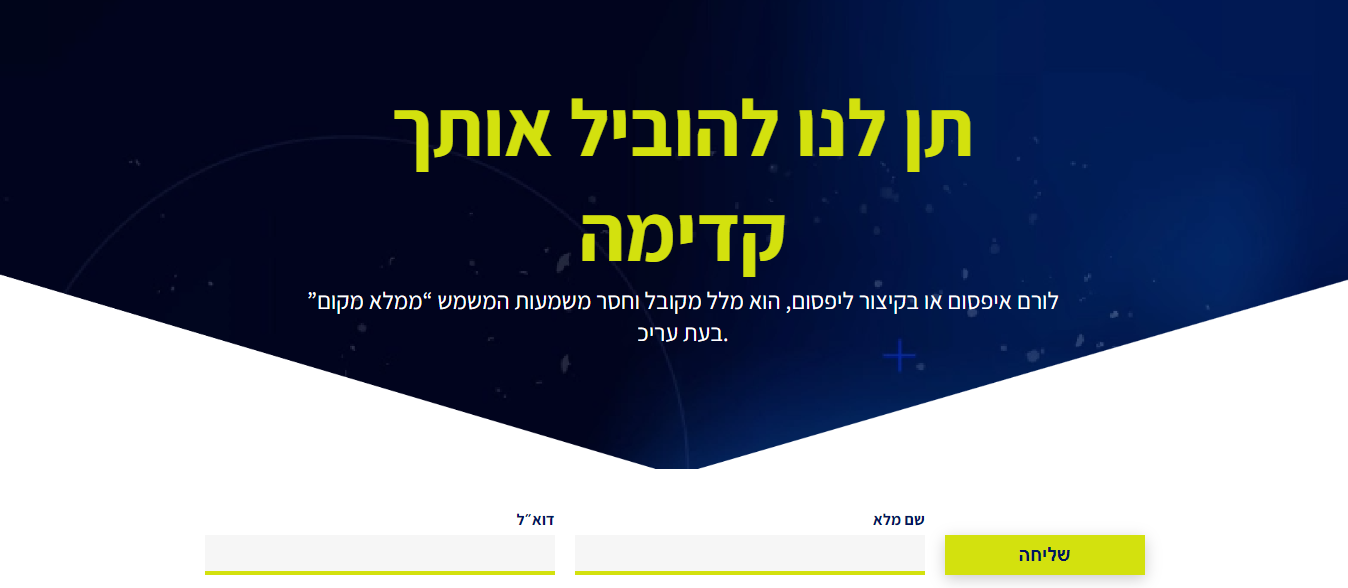
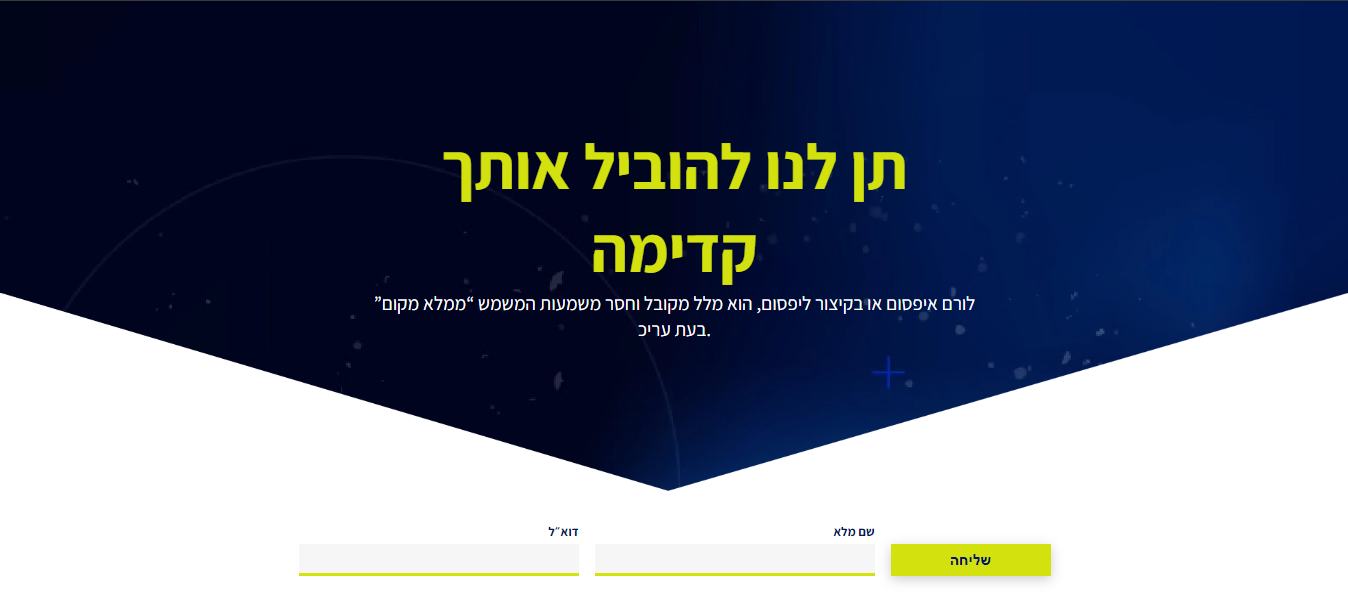
page 4 changes

diff --git a/style/main.css b/style/main.css
@@ -78,7 +78,7 @@ html {
 .container-hero {
     width: 100vw;
     height: 80vh; 
-    background: linear-gradient(to bottom, #1e3c72, #2a5298), url('/images/hero-background.jpg'); 
+    background: linear-gradient(to bottom, #1e3c72, #2a5298); 
     background-size: cover;
     background-position: center;
     color: #fff;

diff --git a/projects/projectName4/style/page4.css b/projects/projectName4/style/page4.css
@@ -14,6 +14,9 @@ body {
     background-image: url(../../../projects/projectName4/images/Path\ 15.png);
     background-size: cover;
     background-position: center bottom;
+    display: flex;
+    justify-content: center;
+    align-items: center;
 }
 
 .upper-container {
